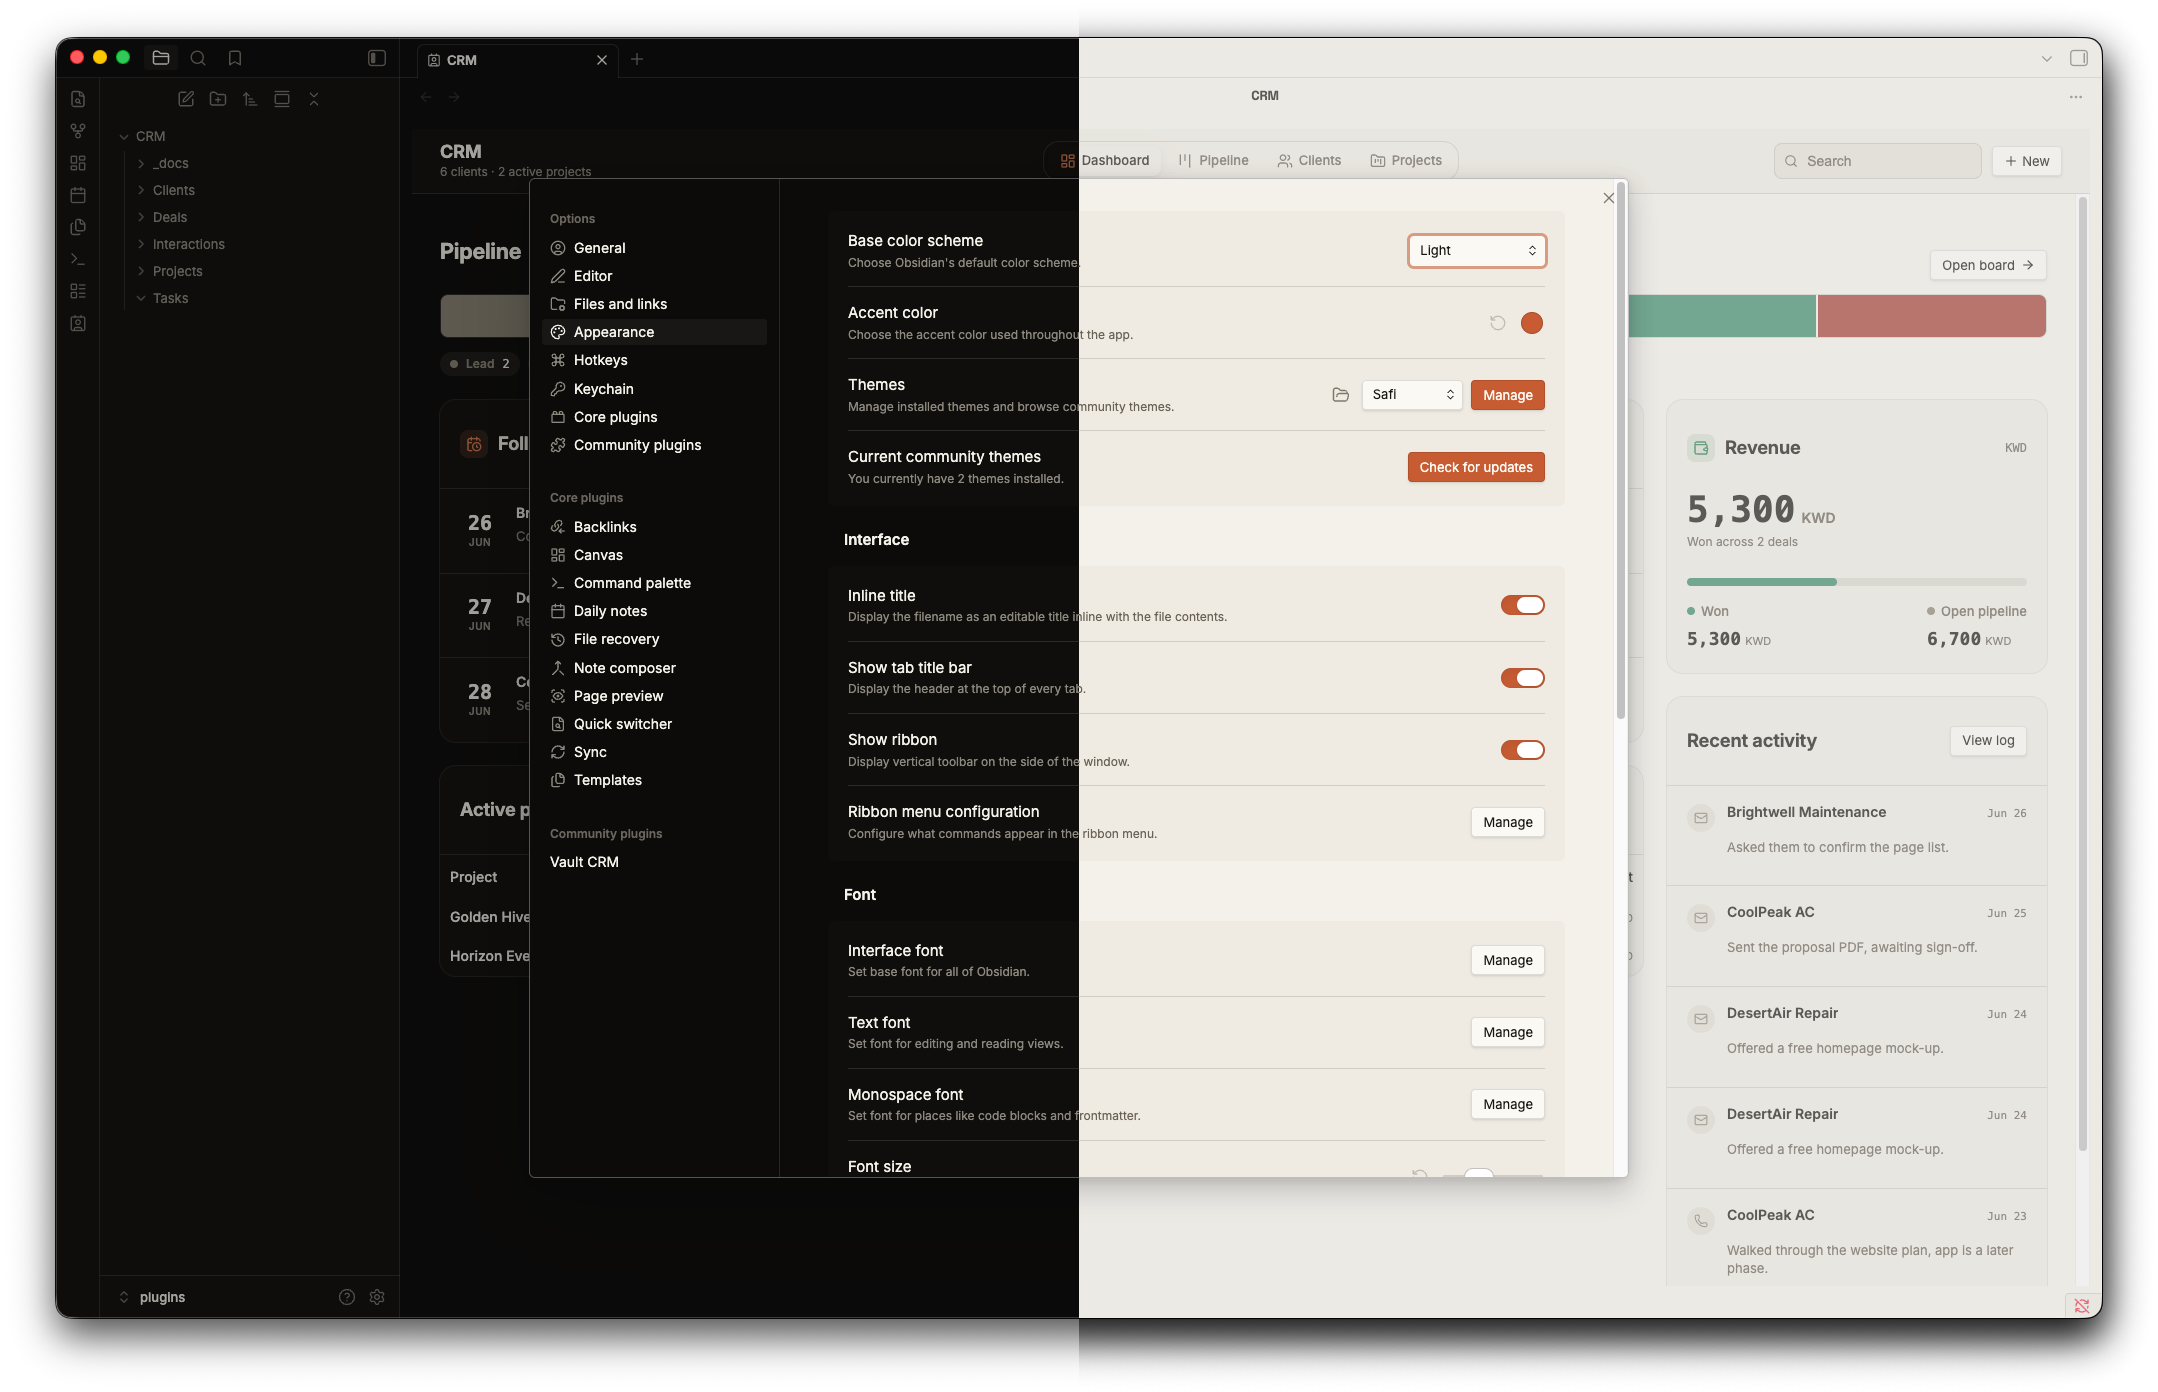
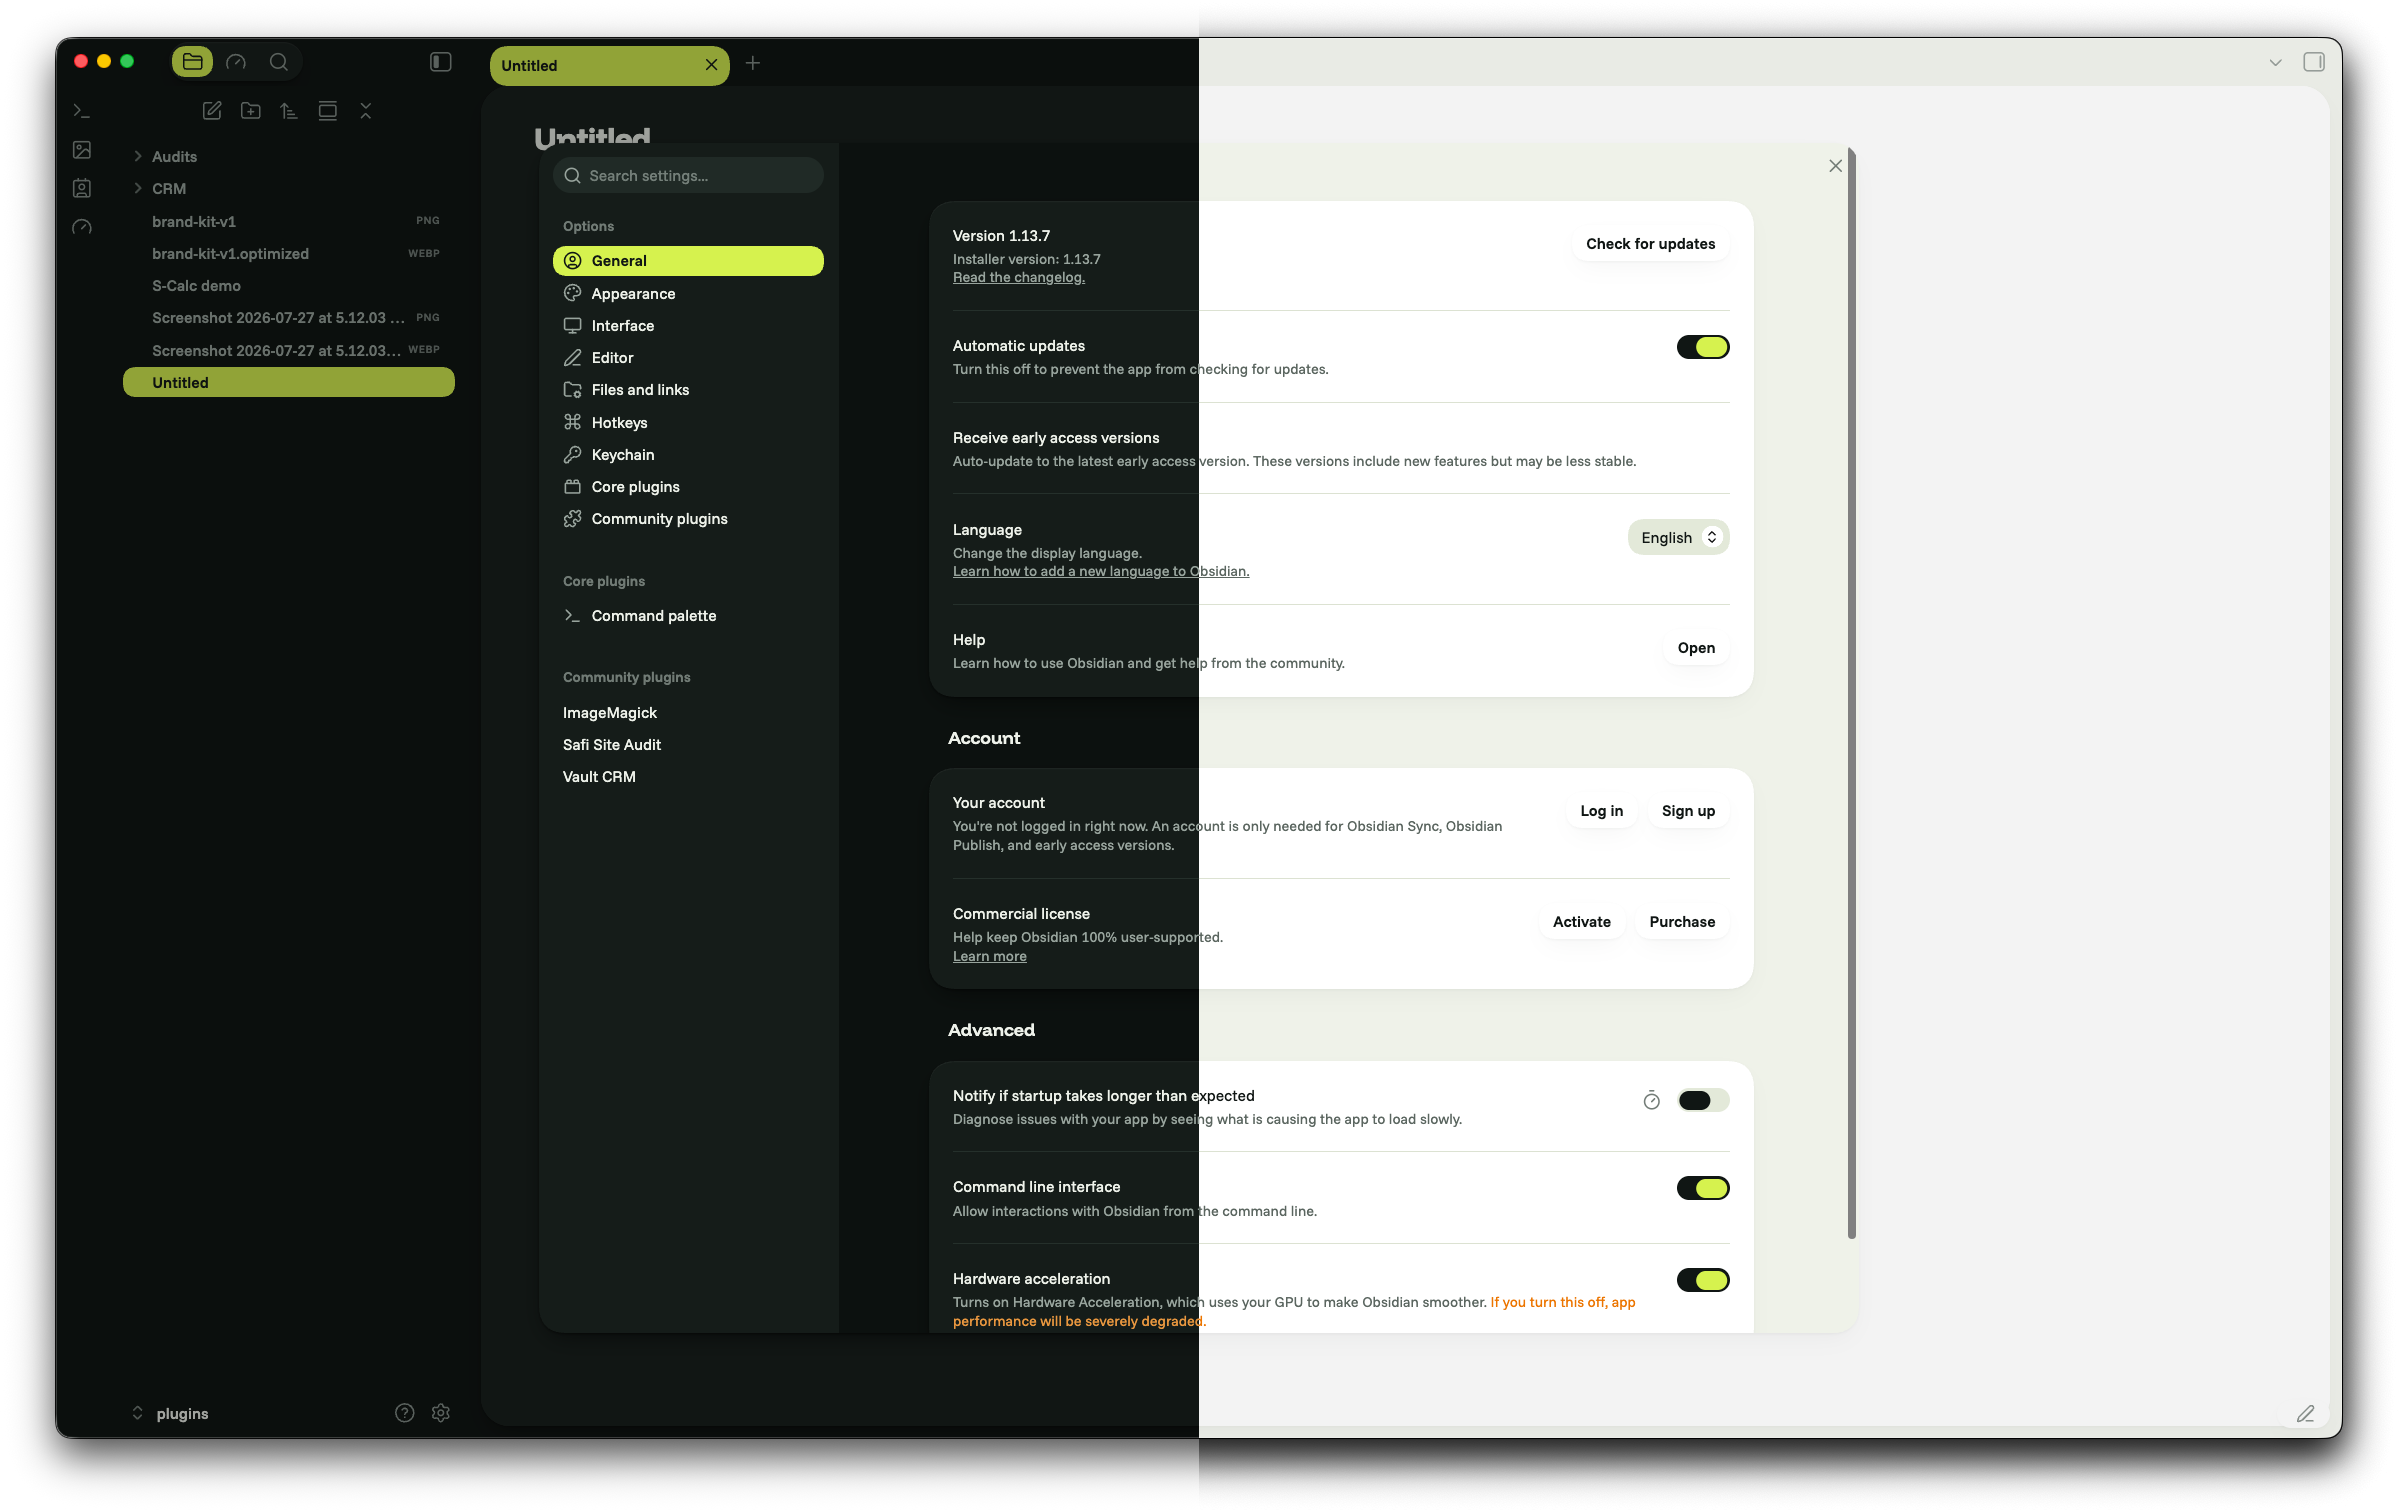
Update README and screenshot for Safi V2
Describes the rounded clean UI: paper page, white cards, lime for the
active item, Funnel fonts, and the Safi-V2 install folder name.

diff --git a/README.md b/README.md
@@ -1,40 +1,45 @@
-# Safi
+# Safi V2
 
-A warm editorial Obsidian theme. Think workbench, not dashboard: a warm near-black (or warm paper) canvas, confident Space Grotesk headings, comfortable Inter body text, and one clay accent. Depth comes from hairline borders, never drop shadows.
+A rounded, clean Obsidian theme. Notes sit on white cards over a soft paper page, corners are round everywhere, and one lime colour marks whatever is active, whether that's the open tab, the current file or the settings section you're in. Green is the brand. Headings are heavy and tight; everything else is a calm sans in two greys.
 
-Pulled from the brand at [abdulkadersafi.com](https://abdulkadersafi.com).
+Pulled from the rounded design style at [abdulkadersafi.com](https://abdulkadersafi.com).
 
-![Safi theme, dark and light](1.png)
-
-![Safi theme in use](2.png)
+![Safi theme in use](./screenshot.png)
 
 ## Both modes
 
-- **Dark** (the default): warm near-black canvas `#0c0b0a`, raised surfaces `#16140f`, warm white text `#f5f2ea`, clay accent `#d97a4f`.
-- **Light** (warm paper): background `#f4f1ea`, raised surfaces `#fbf9f3`, near-black text `#1a1611`, deeper clay accent `#c75c33` so small text stays readable on paper.
+Light mode is paper `#EFF2E9` with white `#FFFFFF` cards, sunken fields in `#E3E9D9`, ink text `#101614` and green `#0E653F`. Dark mode swaps in a page of `#0C110F`, cards of `#151C19`, fields of `#202A26`, text in `#EEF2EA` and a lighter green, `#5FD394`, so links stay readable.
 
-Switch between them in Obsidian under Settings, Appearance, Base color scheme.
+Both use lime `#D6F24E` with ink text for the active item. Never as text on light: it fails contrast.
+
+Switch modes under Settings > Appearance > Base color scheme.
 
 ## What you get
 
-- One clay accent across links, checkboxes, toggles, and buttons. No second accent hue.
-- Space Grotesk for headings and the inline title, Inter for reading, JetBrains Mono for code and UI meta.
-- H2 headings render in clay.
-- Hairline borders for depth, a single committed corner radius, and body text that passes WCAG AA contrast.
+- Each note pane is a white card with 24px corners and a soft shadow that only shows at the bottom edge. Sidebars and tab strips sit on the paper colour.
+- Tabs are pills. The active tab, the active file in the file tree, the selected sidebar icon and the open settings section are all lime pills.
+- Main buttons are ink pills. Text fields are sunken fills with 16px corners and no border. Toggles and checkboxes turn ink with a lime mark when on.
+- Code blocks, callouts and images use 16px corners. Tags are sunken pills.
+- In settings, each group is a white card on paper, so inputs stay visible.
+- Tables fill the full content width, and the readable line length goes up to 1440px.
 
 ## Fonts
 
-The theme loads Space Grotesk, Inter, and JetBrains Mono from Google Fonts, so first paint needs an internet connection. After that they cache. If you want it fully offline, install the three fonts on your system and the theme will use them.
+Funnel Display for headings and the inline title, Funnel Sans for everything else, JetBrains Mono for code only.
+
+The theme loads them from Google Fonts, so the first load needs an internet connection. After that they are cached. To work fully offline, install the three fonts on your system. If Funnel is missing, the theme falls back to Wix Madefor Display and Text, then Host Grotesk.
 
 ## Install
 
-1. Copy the `Safi` folder into your vault at `.obsidian/themes/Safi`.
-2. In Obsidian, open Settings, Appearance, Themes, and pick **Safi**.
+1. Copy the `Safi-V2` folder into your vault at `.obsidian/themes/Safi-V2`. The folder name must match the `name` in `manifest.json` exactly, capital V included, or Obsidian won't list it.
+2. In Obsidian, open Settings > Appearance > Themes and pick **Safi-V2**. If it doesn't appear, reload Obsidian.
 
 ## Customise
 
-Colors and fonts live as CSS variables at the top of `theme.css`, grouped under `.theme-dark` and `.theme-light`. Edit those to retheme fast.
+The colour tokens sit near the top of `theme.css`, under `.theme-light` and `.theme-dark` (`--surface-page`, `--surface-card`, `--surface-accent`, `--text-brand` and so on). A shared block below them maps those tokens onto Obsidian's own variables, so to retheme you only edit the tokens.
+
+To change the brand, swap the green. You can also replace lime with another bright accent, as long as ink text stays readable on it.
 
 ## Support
 
-If this plugin is useful, you can support the work at [ko-fi.com/abdulkadersafi](https://ko-fi.com/abdulkadersafi).
+If this theme is useful, you can support the work at [ko-fi.com/abdulkadersafi](https://ko-fi.com/abdulkadersafi).
